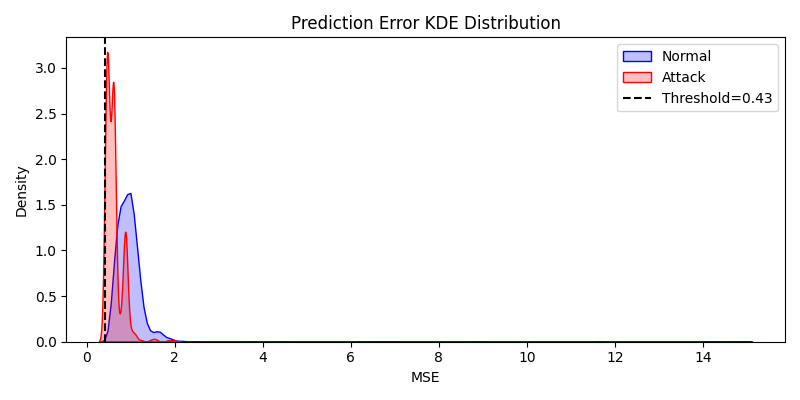
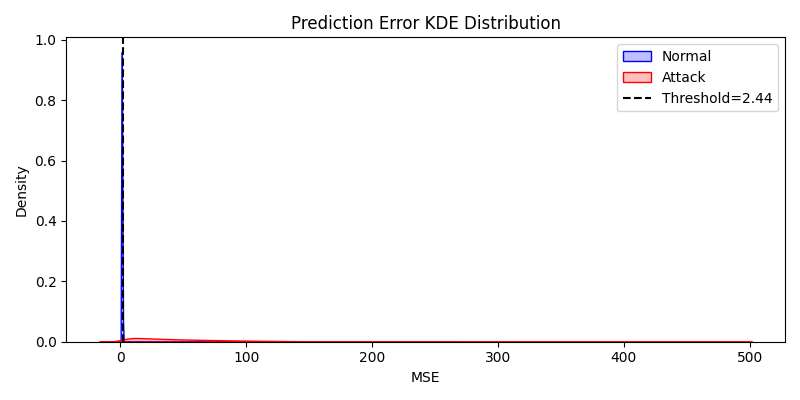
완료

diff --git a/z_test_prediction_ae.py b/z_test_prediction_ae.py
@@ -7,10 +7,10 @@ import pandas as pd
 import matplotlib.pyplot as plt
 import seaborn as sns
 from sklearn.metrics import (
-    roc_auc_score, precision_recall_curve, auc,
+    fbeta_score, roc_auc_score, precision_recall_curve, auc,
     classification_report, precision_score, recall_score, f1_score
 )
-
+from sklearn.metrics import confusion_matrix, ConfusionMatrixDisplay
 from z_models.prediction_autoencoder import PredictionAutoEncoder
 
 
@@ -32,6 +32,7 @@ model = PredictionAutoEncoder(input_dim=8, hidden_dim=128, seq_len=5, pred_len=1
 model.load_state_dict(torch.load("z_models/prediction_autoencoder.pth"))
 model.eval()
 
+# # 기존 방식
 # Load data
 X_test = np.load("z_data/test_X.npy")  # (N, 30, 8)
 Y_test = np.load("z_data/test_Y.npy")  # (N, 1, 8)
@@ -40,27 +41,94 @@ y_test = np.load("z_data/test_labels.npy")  # (N,)
 X_test_tensor = torch.tensor(X_test, dtype=torch.float32).to(DEVICE)
 Y_test_tensor = torch.tensor(Y_test, dtype=torch.float32).to(DEVICE)
 
-# Load raw VEREMI CSV for scenario ID alignment
-df_veremi = pd.read_csv("z_test/veremi_etsi_standardized.csv")
-scenario_ids = extract_sequence_scenario_ids(df_veremi, window_size=5, pred_len=1)
-
-# Prediction
+# Prediction (기존 방식)
 with torch.no_grad():
     predicted = model(X_test_tensor)
     errors = torch.mean((Y_test_tensor - predicted) ** 2, dim=(1, 2)).cpu().numpy()
 
+
 # Thresholding
 # threshold = np.percentile(errors[y_test == 0], 90)
 # y_pred = (errors > threshold).astype(int)
-thresholds = np.linspace(min(errors), max(errors), 100)
-f1_scores = [f1_score(y_test, (errors > t).astype(int), zero_division=0) for t in thresholds]
-best_idx = np.argmax(f1_scores)
+# thresholds = np.linspace(min(errors), max(errors), 100)
+thresholds = np.logspace(np.log10(errors.min()+1e-6), np.log10(errors.max()), 300)
+# f1_scores = [f1_score(y_test, (errors > t).astype(int), zero_division=0) for t in thresholds]
+# best_idx = np.argmax(f1_scores)
+# threshold = thresholds[best_idx]
+precision, recall, thresholds = precision_recall_curve(y_test, errors)
+# f2_scores = [fbeta_score(y_test, (errors > t).astype(int), beta=2) for t in thresholds]
+beta = 2
+f2_scores = (1 + beta**2) * (precision * recall) / (beta**2 * precision + recall + 1e-10)
+
+best_idx = np.argmax(f2_scores)
 threshold = thresholds[best_idx]
+print("Best Threshold (by F2):", threshold)
+
 
 y_pred = (errors > threshold).astype(int)
 
-print(f"[✔] Best threshold (by F1): {threshold:.4f}")
-print(f"[✔] Best F1-score       : {f1_scores[best_idx]:.4f}")
+print(f"[✔] Best threshold : {threshold:.4f}")
+# print(f"[✔] Best F1-score       : {f1_scores[best_idx]:.4f}")
+
+# # -------------------
+# # 데이터 로드 및 분리
+# # -------------------
+# X_all = np.load("z_data/test_X.npy")
+# Y_all = np.load("z_data/test_Y.npy")
+# y_all = np.load("z_data/test_labels.npy")
+
+# # Validation / Test 분리 (예: 앞 30%는 validation, 나머지는 test)
+# split_idx = int(len(X_all) * 0.3)
+# X_val, Y_val, y_val = X_all[:split_idx], Y_all[:split_idx], y_all[:split_idx]
+# X_test, Y_test, y_test = X_all[split_idx:], Y_all[split_idx:], y_all[split_idx:]
+
+# # Torch tensor 변환
+# X_val_tensor = torch.tensor(X_val, dtype=torch.float32).to(DEVICE)
+# Y_val_tensor = torch.tensor(Y_val, dtype=torch.float32).to(DEVICE)
+# X_test_tensor = torch.tensor(X_test, dtype=torch.float32).to(DEVICE)
+# Y_test_tensor = torch.tensor(Y_test, dtype=torch.float32).to(DEVICE)
+
+
+
+# # -------------------
+# # Validation 에러로 threshold 결정
+# # -------------------
+# with torch.no_grad():
+#     pred_val = model(X_val_tensor)
+#     errors_val = torch.mean((Y_val_tensor - pred_val) ** 2, dim=(1, 2)).cpu().numpy()
+
+# # 정상 데이터 기준 threshold (예: 95%)
+# threshold = np.percentile(errors_val[y_val == 0], 80)
+# print(f"[✔] Validation 기반 Threshold: {threshold:.4f}")
+
+# # Validation에서 threshold 최적화
+# # thresholds = np.linspace(errors_val.min(), errors_val.max(), 200)
+# # f1_scores = [f1_score(y_val, (errors_val > t).astype(int)) for t in thresholds]
+# # best_idx = np.argmax(f1_scores)
+# # threshold = thresholds[best_idx]
+
+# # print(f"[✔] Validation 기반 F1 최적 Threshold: {threshold:.4f}")
+# # print(f"[✔] Validation F1-score: {f1_scores[best_idx]:.4f}")
+
+# # -------------------
+# # Test 평가
+# # -------------------
+with torch.no_grad():
+    pred_test = model(X_test_tensor)
+    errors_test = torch.mean((Y_test_tensor - pred_test) ** 2, dim=(1, 2)).cpu().numpy()
+errors = errors_test
+y_pred = (errors > threshold).astype(int)
+
+
+
+
+
+# Load raw VEREMI CSV for scenario ID alignment
+df_veremi = pd.read_csv("z_test/veremi_etsi_standardized.csv")
+scenario_ids = extract_sequence_scenario_ids(df_veremi, window_size=5, pred_len=1)
+
+
+
 
 
 
@@ -70,28 +138,46 @@ precision, recall, _ = precision_recall_curve(y_test, errors)
 pr_auc = auc(recall, precision)
 
 print("Classification Report:\n", classification_report(y_test, y_pred))
-print(f"ROC-AUC: {roc_auc:.4f}")
-print(f"PR-AUC : {pr_auc:.4f}")
-print(f"Threshold: {threshold:.4f}")
+print(f"ROC-AUC: {roc_auc:.8f}")
+print(f"PR-AUC : {pr_auc:.8f}")
+print(f"Threshold: {threshold:.8f}")
 
 # Error Distribution
-plt.figure(figsize=(12,6))
-bins = np.logspace(np.log10(errors.min()+1e-6), np.log10(errors.max()), 100)
+plt.figure(figsize=(10,5), dpi=300)
+bins = np.logspace(np.log10(errors.min()+1e-6), np.log10(errors.max()), 300)
 
-plt.hist(errors[y_test==0], bins=bins, color="blue", alpha=0.5, label="Normal", density=True, edgecolor="black", linewidth=0.3)
-plt.hist(errors[y_test==1], bins=bins, color="red", alpha=0.5, label="Attack", density=True, edgecolor="black", linewidth=0.3)
+plt.hist(errors[y_test==0], bins=bins, color="blue", alpha=0.5, label="Normal", density=False, edgecolor="black", linewidth=0.3)
+plt.hist(errors[y_test==1], bins=bins, color="red", alpha=0.3, label="Attack", density=False, edgecolor="black", linewidth=0.3)
 # sns.histplot(errors[y_test == 0], label="Normal", color="blue", bins=bins, stat="density", common_norm=False)
 # sns.histplot(errors[y_test == 1], label="Attack", color="red", bins=bins, stat="density", common_norm=False, alpha=0.4)
 
-plt.axvline(threshold, color="black", linestyle="--", label="Threshold")
-plt.xscale("log")   # 👈 로그말고 다른거 없나
+# plt.axvline(threshold, color="black", linestyle="--", label="Threshold")
+plt.xscale("log")
 plt.yscale("log")   # 👈 y축도 로그
 plt.title("Prediction Error Distribution (log scale)")
-plt.xlabel("MSE (log)")
-plt.ylabel("Density (log)")
-plt.legend()
+plt.xlabel("MSE (log)", fontdict={'fontsize': 12})
+plt.ylabel("Density (log)", fontdict={'fontsize': 12})
+plt.xticks(fontsize=12)
+plt.yticks(fontsize=12)
 plt.tight_layout()
 plt.show()
+plt.savefig("prediction_error_distribution.png", dpi=300, bbox_inches='tight')  # 또는 .pdf 가능
+
+
+cm = confusion_matrix(y_test, y_pred)
+disp = ConfusionMatrixDisplay(confusion_matrix=cm, display_labels=["Normal (0)", "Attack (1)"])
+disp.plot(cmap="Blues", values_format="d")
+plt.title("Confusion Matrix (Prediction-AE)")
+plt.tight_layout()
+plt.savefig("z_results/prediction_confusion_matrix.png")
+plt.show()
+
+print("Confusion Matrix:\n", cm)
+tn, fp, fn, tp = cm.ravel()
+print(f"True Negatives (TN): {tn}")
+print(f"False Positives (FP): {fp}  <- 오탐")
+print(f"False Negatives (FN): {fn}  <- 미탐(정탐 실패)")
+print(f"True Positives (TP): {tp}  <- 정탐")
 
 # Scenario-wise Evaluation
 scenario_metrics = []
@@ -157,17 +243,6 @@ plt.show()
 # 추가 시각화
 # =========================
 
-# 1. KDE Plot (에러 분포 곡선) -> 정상/공격 분포 겹침 정도
-plt.figure(figsize=(8,4))
-sns.kdeplot(errors[y_test==0], label="Normal", color="blue", fill=True)
-sns.kdeplot(errors[y_test==1], label="Attack", color="red", fill=True)
-plt.axvline(threshold, color="black", linestyle="--", label=f"Threshold={threshold:.2f}")
-plt.title("Prediction Error KDE Distribution")
-plt.xlabel("MSE")
-plt.legend()
-plt.tight_layout()
-plt.savefig("z_results/prediction_error_kde.png")
-plt.show()
 
 # 2. Scenario-wise Error Boxplot -> 시나리오 별 error 편차
 df_errors = pd.DataFrame({

diff --git a/z_v2x_data_loader.py b/z_v2x_data_loader.py
@@ -425,7 +425,7 @@ class V2XDataLoader:
         
         return quality_report
 
-    def get_unit_info(self) -> dict:
+    def get_unit_info(self) -> dict:  
         """현재 설정된 단위 정보 반환"""
         return {
             'standardize_units': self.standardize_units,
@@ -547,10 +547,10 @@ def main():
     # data_filter_types: 실제 데이터에서 정상(0), 공격 타입 1, 2만 포함
     veremi_df_filtered = loader.load_veremi_dataset(
         veremi_root=veremi_root,
-        max_files=1500,
-        directory_filter_types=[0, 16],   # 시나리오 디렉토리에서 공격 타입 1, 2만
-        data_filter_types=[0, 16],     # 데이터에서 정상(0), 공격 1, 2만
-        max_scenarios=10               # 시나리오 개수 제한 없음 (필요시 정수로 제한)
+        max_files=10000,
+        directory_filter_types=[0, 8],   # 시나리오 디렉토리에서 공격 타입 1, 2만
+        data_filter_types=[0, 8],     # 데이터에서 정상(0), 공격 1, 2만
+        max_scenarios=45               # 시나리오 개수 제한 없음 (필요시 정수로 제한)
     )
     
     if not veremi_df_filtered.empty:
